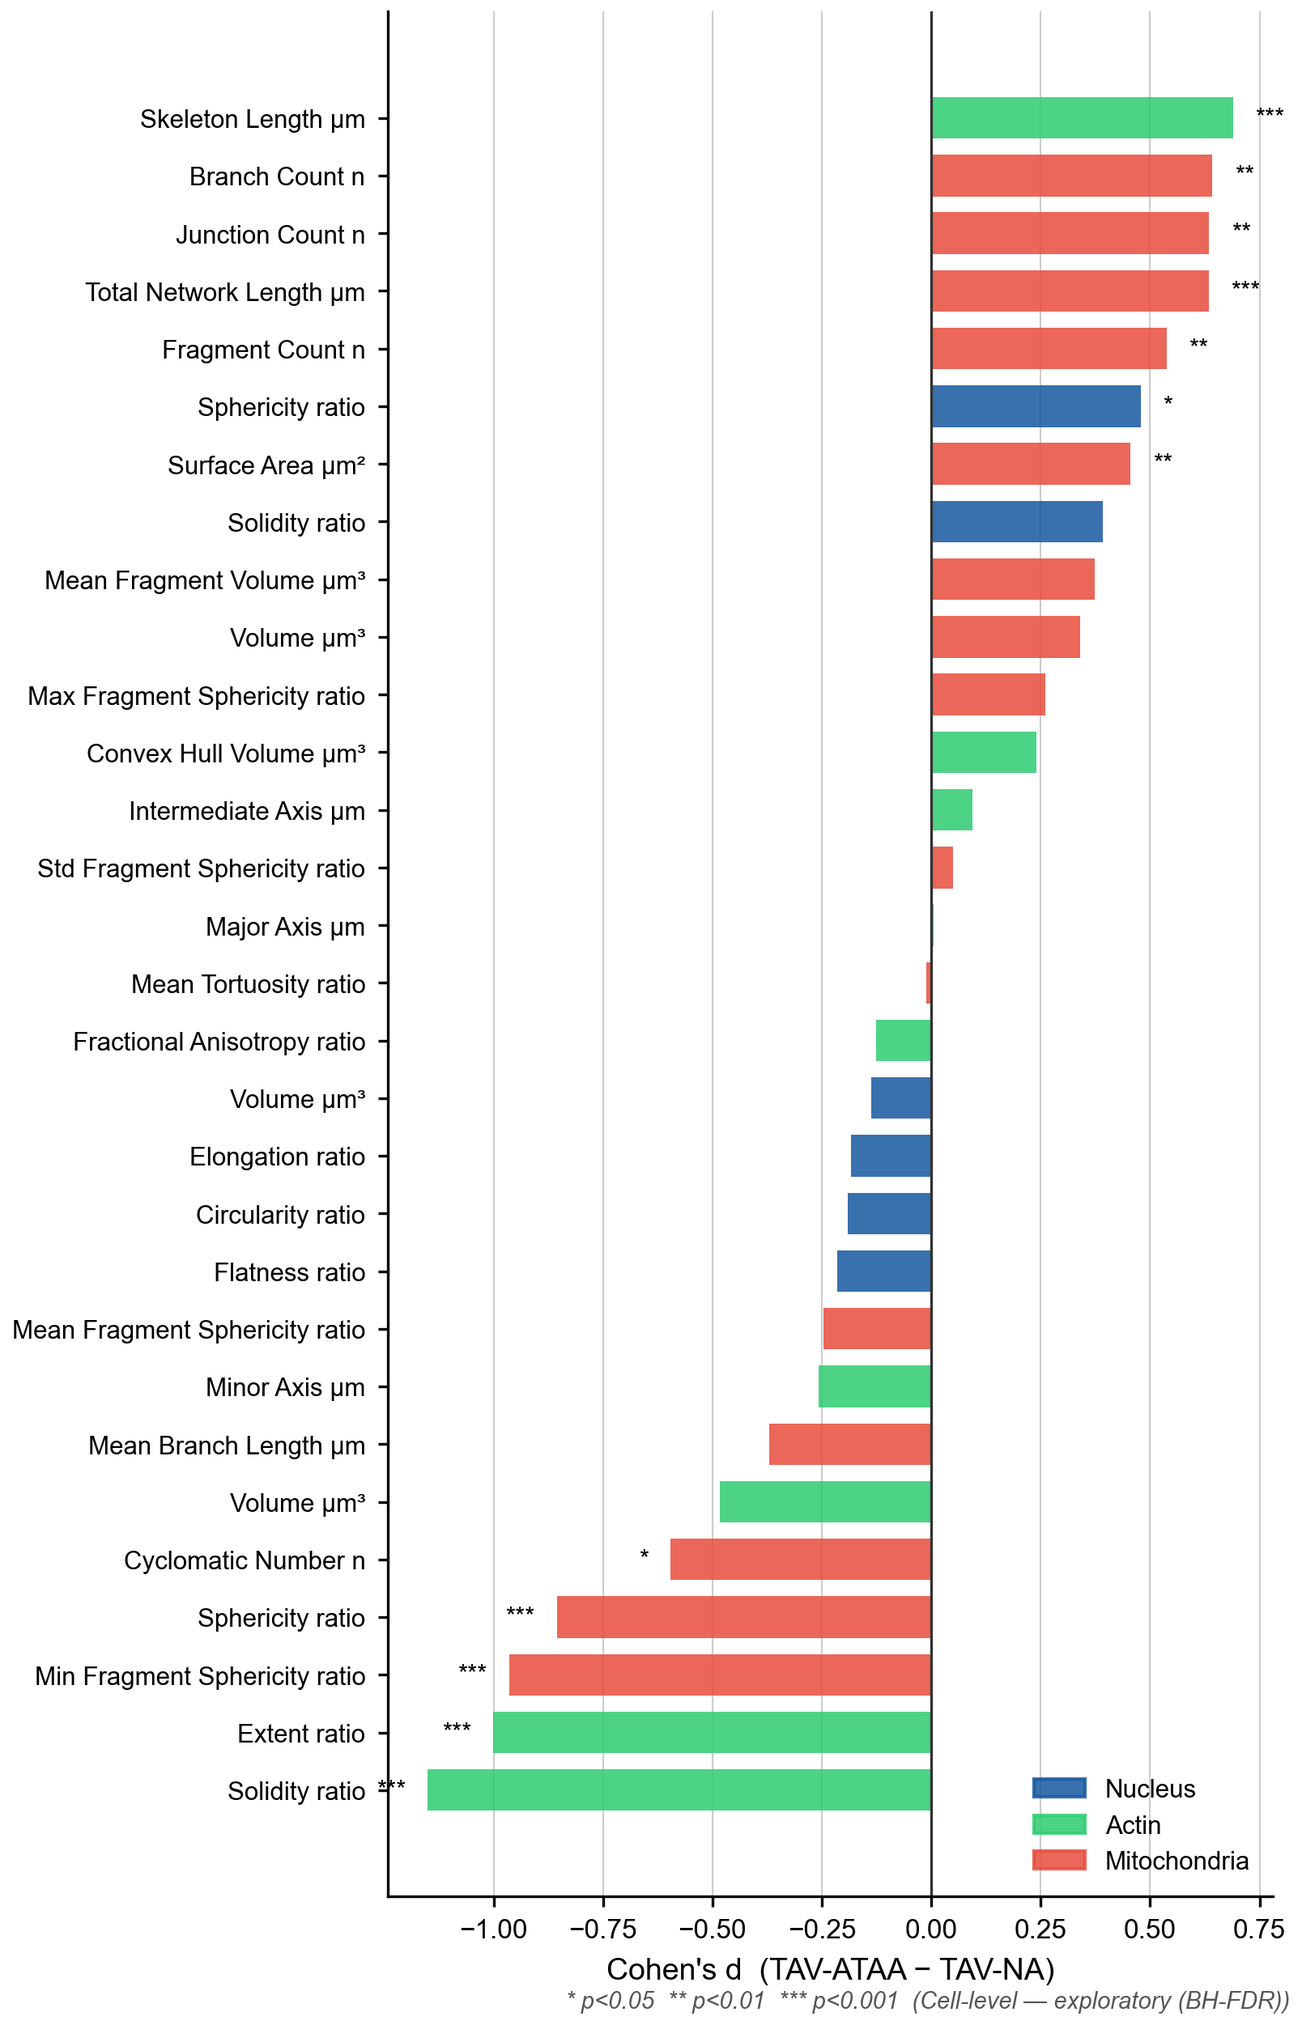
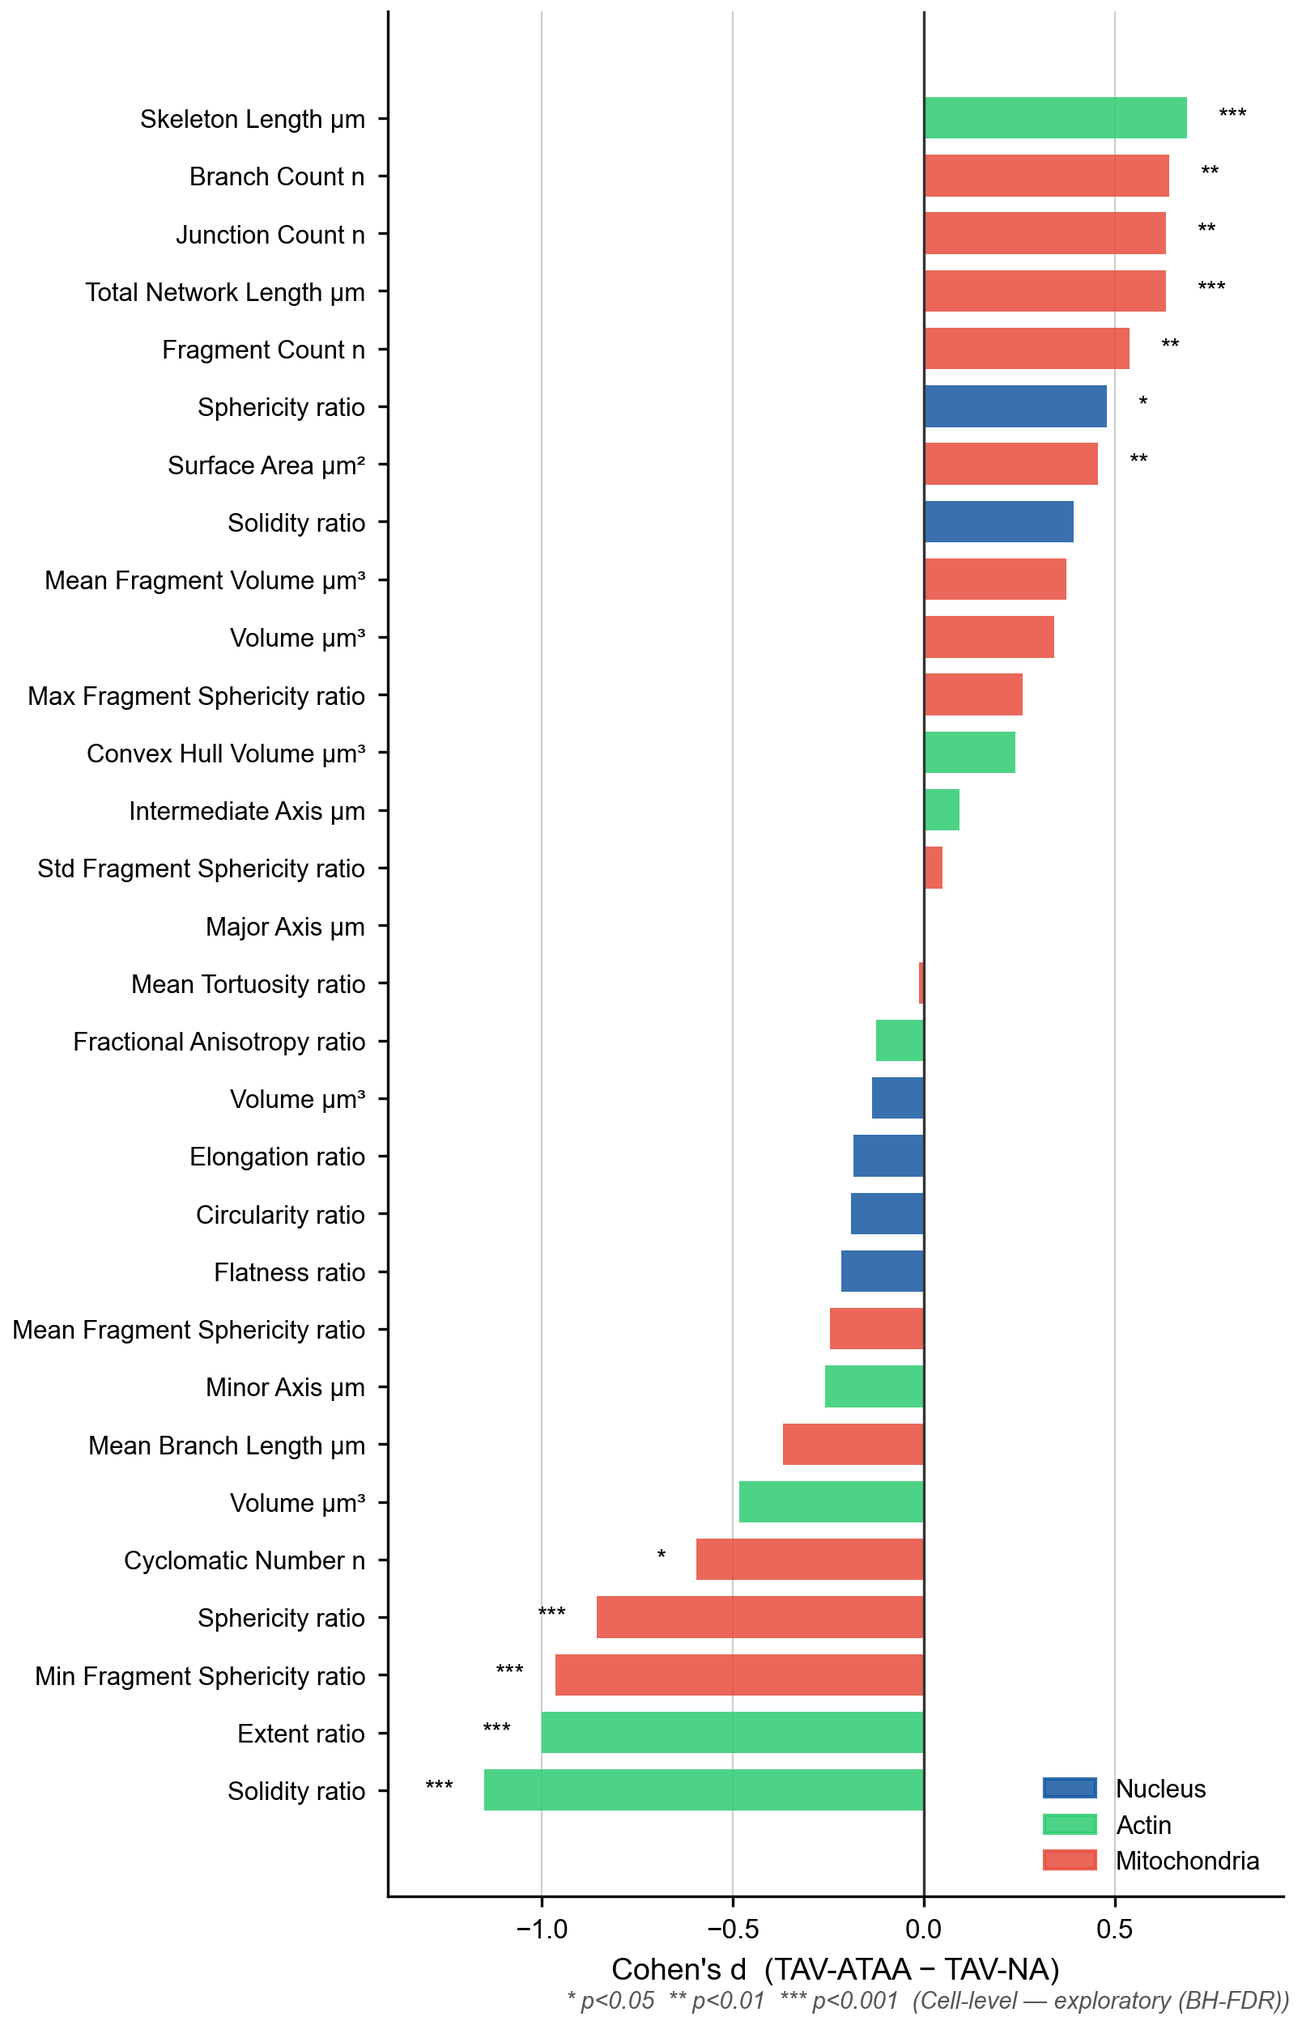
improved plots

diff --git a/src/analysis/plot_part1_cell_l1_composite.py b/src/analysis/plot_part1_cell_l1_composite.py
@@ -1,0 +1,202 @@
+"""
+Composite figure: Part 1 cell-level L1 significant features (TAV-NA vs TAV-ATAA).
+12 panels (3 cols × 4 rows), only NoCollagen cells, box + strip style.
+Output: outputs/figures/part1_cell_l1_composite.png
+"""
+
+import numpy as np
+import pandas as pd
+import matplotlib
+matplotlib.use('Agg')
+import matplotlib.pyplot as plt
+import matplotlib.patches as mpatches
+from pathlib import Path
+from scipy.stats import mannwhitneyu
+
+PROJ = Path(__file__).resolve().parents[2]
+OUT  = PROJ / 'outputs' / 'figures'
+OUT.mkdir(parents=True, exist_ok=True)
+
+# ── colours ───────────────────────────────────────────────────────────────────
+COLOR = {'Healthy': '#4C9BE8', 'TAA': '#E74C3C'}
+LABEL = {'Healthy': 'TAV-NA', 'TAA': 'TAV-ATAA'}
+ORGANELLE_COLOR = {
+    'Actin':        '#2ECC71',
+    'Mitochondria': '#E74C3C',
+    'Nucleus':      '#1558A0',
+}
+
+# ── 12 significant cell-level features (organelle, raw_col, display_name, unit)
+FEATURES = [
+    # Actin
+    ('Actin',        'Actin_Solidity_ratio',               'Solidity',                'ratio'),
+    ('Actin',        'Actin_Extent_ratio',                 'Extent',                  'ratio'),
+    ('Actin',        'Actin_Skeleton_Length_µm',           'Skeleton length',         'µm'),
+    # Mitochondria
+    ('Mitochondria', 'Mito_Min_Fragment_Sphericity_ratio', 'Min. fragment sphericity', 'ratio'),
+    ('Mitochondria', 'Mito_Sphericity_ratio',              'Network sphericity',       'ratio'),
+    ('Mitochondria', 'Mito_Branch_Count_n',                'Branch count',             'n'),
+    ('Mitochondria', 'Mito_Junction_Count_n',              'Junction count',           'n'),
+    ('Mitochondria', 'Mito_Total_Network_Length_µm',       'Total network length',     'µm'),
+    ('Mitochondria', 'Mito_Fragment_Count_n',              'Fragment count',           'n'),
+    ('Mitochondria', 'Mito_Cyclomatic_Number_n',           'Cyclomatic number',        'n'),
+    ('Mitochondria', 'Mito_Surface_Area_µm²',              'Surface area',             'µm²'),
+    # Nucleus
+    ('Nucleus',      'Nucleus_Sphericity_ratio',           'Sphericity',               'ratio'),
+]
+
+# ── helpers ───────────────────────────────────────────────────────────────────
+def cohens_d(a, b):
+    s = np.sqrt((np.std(a, ddof=1)**2 + np.std(b, ddof=1)**2) / 2)
+    return (np.mean(b) - np.mean(a)) / s if s > 0 else 0.0
+
+def sig_stars(q):
+    if q < 0.001: return '***'
+    if q < 0.01:  return '**'
+    if q < 0.05:  return '*'
+    return 'ns'
+
+# q-values from L1_pairwise.csv (cell level, BH-FDR)
+Q_VALUES = {
+    'Actin_Solidity_ratio':               4.89e-6,
+    'Actin_Extent_ratio':                 4.89e-6,
+    'Actin_Skeleton_Length_µm':           1.44e-4,
+    'Mito_Min_Fragment_Sphericity_ratio': 9.03e-6,
+    'Mito_Sphericity_ratio':              7.87e-5,
+    'Mito_Branch_Count_n':                1.94e-3,
+    'Mito_Junction_Count_n':              2.43e-3,
+    'Mito_Total_Network_Length_µm':       8.32e-4,
+    'Mito_Fragment_Count_n':              2.05e-3,
+    'Mito_Cyclomatic_Number_n':           1.59e-2,
+    'Mito_Surface_Area_µm²':              5.10e-3,
+    'Nucleus_Sphericity_ratio':           2.93e-2,
+}
+
+# ── load data ─────────────────────────────────────────────────────────────────
+df = pd.read_csv(PROJ / 'outputs' / 'Advanced_Features_Raw_Final.csv')
+df = df[df['Collagen_Status'] == 'NoCollagen']
+df = df[df['Disease'].isin(['Healthy', 'TAA'])]
+
+# ── paper rc ──────────────────────────────────────────────────────────────────
+plt.rcParams.update({
+    'font.family':       'Arial',
+    'font.sans-serif':   ['Arial'],
+    'font.size':         10,
+    'axes.labelsize':    10,
+    'axes.titlesize':    11,
+    'xtick.labelsize':   9,
+    'ytick.labelsize':   9,
+    'axes.linewidth':    0.8,
+    'xtick.major.width': 0.8,
+    'ytick.major.width': 0.8,
+    'xtick.major.size':  3,
+    'ytick.major.size':  3,
+    'axes.spines.top':   False,
+    'axes.spines.right': False,
+    'savefig.dpi':       300,
+})
+
+# ── figure ────────────────────────────────────────────────────────────────────
+NCOLS, NROWS = 3, 4
+fig, axes = plt.subplots(NROWS, NCOLS,
+                         figsize=(7.2, 9.6),
+                         constrained_layout=False)
+fig.subplots_adjust(left=0.09, right=0.97, top=0.92, bottom=0.06,
+                    hspace=0.72, wspace=0.42)
+
+rng = np.random.default_rng(42)
+
+for idx, (organelle, col, name, unit) in enumerate(FEATURES):
+    row, c = divmod(idx, NCOLS)
+    ax = axes[row, c]
+
+    org_color = ORGANELLE_COLOR[organelle]
+
+    vals = {}
+    for grp in ['Healthy', 'TAA']:
+        v = df.loc[df['Disease'] == grp, col].dropna().values
+        vals[grp] = v
+
+    # ── box plot ──────────────────────────────────────────────────────────────
+    positions = [0, 1]
+    bp = ax.boxplot(
+        [vals['Healthy'], vals['TAA']],
+        positions=positions,
+        widths=0.45,
+        patch_artist=True,
+        medianprops=dict(color='black', linewidth=1.5),
+        whiskerprops=dict(linewidth=0.8),
+        capprops=dict(linewidth=0.8),
+        flierprops=dict(marker='', linestyle='none'),
+        boxprops=dict(linewidth=0.8),
+    )
+    for patch, grp in zip(bp['boxes'], ['Healthy', 'TAA']):
+        patch.set_facecolor(COLOR[grp])
+        patch.set_alpha(0.35)
+
+    # ── strip plot ────────────────────────────────────────────────────────────
+    for xi, grp in zip(positions, ['Healthy', 'TAA']):
+        v = vals[grp]
+        jitter = rng.uniform(-0.18, 0.18, size=len(v))
+        ax.scatter(xi + jitter, v,
+                   color=COLOR[grp], s=10, alpha=0.65,
+                   linewidths=0, zorder=3)
+
+    # ── significance bracket ──────────────────────────────────────────────────
+    q     = Q_VALUES[col]
+    d     = cohens_d(vals['Healthy'], vals['TAA'])
+    stars = sig_stars(q)
+
+    ymax  = max(np.percentile(vals['Healthy'], 97),
+                np.percentile(vals['TAA'],     97))
+    ymin  = min(np.percentile(vals['Healthy'], 3),
+                np.percentile(vals['TAA'],     3))
+    yspan = ymax - ymin
+    bar_y = ymax + 0.10 * yspan
+    tick  = 0.03 * yspan
+
+    ax.plot([0, 0, 1, 1], [bar_y - tick, bar_y, bar_y, bar_y - tick],
+            lw=0.9, color='#333333')
+    ax.text(0.5, bar_y + 0.01 * yspan, stars,
+            ha='center', va='bottom', fontsize=10, color='#333333')
+
+    # ── axes labels ───────────────────────────────────────────────────────────
+    y_label = name if unit == 'ratio' else f'{name} ({unit})'
+    ax.set_ylabel(y_label, fontsize=9)
+    ax.set_xticks([0, 1])
+    ax.set_xticklabels(['TAV-NA', 'TAV-ATAA'], fontsize=9)
+    ax.set_xlim(-0.55, 1.55)
+
+    # ── panel title ───────────────────────────────────────────────────────────
+    ax.set_title(name, fontsize=11, fontweight='bold', pad=4,
+                 color=org_color)
+
+    # ── d annotation ─────────────────────────────────────────────────────────
+    ax.text(0.97, 0.97, f'$d$ = {d:+.2f}',
+            transform=ax.transAxes, fontsize=8,
+            ha='right', va='top', color='#555555')
+
+# ── organelle legend (top centre) ────────────────────────────────────────────
+patches = [mpatches.Patch(facecolor=ORGANELLE_COLOR[o], label=o, alpha=0.85)
+           for o in ['Actin', 'Mitochondria', 'Nucleus']]
+fig.legend(handles=patches, loc='upper center', ncol=3,
+           frameon=False, fontsize=9,
+           bbox_to_anchor=(0.5, 0.975))
+
+# ── group legend (top right) ──────────────────────────────────────────────────
+grp_patches = [mpatches.Patch(facecolor=COLOR[g], alpha=0.55, label=LABEL[g])
+               for g in ['Healthy', 'TAA']]
+fig.legend(handles=grp_patches, loc='upper right',
+           frameon=False, fontsize=9,
+           bbox_to_anchor=(0.99, 0.975))
+
+# ── footnote ─────────────────────────────────────────────────────────────────
+fig.text(0.5, 0.005,
+         '* $q$<0.05   ** $q$<0.01   *** $q$<0.001   '
+         '(BH-FDR corrected, cell level, no-collagen condition)',
+         ha='center', fontsize=7.5, color='#666666', style='italic')
+
+out_path = OUT / 'part1_cell_l1_composite.png'
+fig.savefig(out_path, dpi=300, bbox_inches='tight', pad_inches=0.05)
+plt.close(fig)
+print(f'Saved → {out_path}')

diff --git a/src/analysis/plot_part1_cohens_d_composite.py b/src/analysis/plot_part1_cohens_d_composite.py
@@ -1,0 +1,157 @@
+"""
+Composite Cohen's d figure — Part 1 (TAV-NA vs TAV-ATAA).
+2 × 2 grid:
+  A  Cell level   L1 Disease        B  Cell level   L2 Age-corrected
+  C  Patient level L1 Disease       D  Patient level L2 Age-corrected
+
+Features sorted by cell-level L1 |Cohen's d| (A sets the order; B, C, D follow).
+Output: outputs/figures/part1_cohens_d_composite.png
+"""
+
+import numpy as np
+import pandas as pd
+import matplotlib
+matplotlib.use('Agg')
+import matplotlib.pyplot as plt
+import matplotlib.patches as mpatches
+from pathlib import Path
+
+PROJ = Path(__file__).resolve().parents[2]
+OUT  = PROJ / 'outputs' / 'figures'
+OUT.mkdir(parents=True, exist_ok=True)
+
+# ── colours ───────────────────────────────────────────────────────────────────
+ORGANELLE_COLORS = {
+    'Actin':        '#2ECC71',
+    'Mitochondria': '#E74C3C',
+    'Nucleus':      '#1558A0',
+}
+
+# ── load all four CSVs ────────────────────────────────────────────────────────
+cell_l1  = pd.read_csv(PROJ / 'outputs/final_thesis_part1/cell/L1_pairwise.csv')
+cell_l2  = pd.read_csv(PROJ / 'outputs/final_thesis_part1/cell/L2_age_corrected.csv')
+pt_l1    = pd.read_csv(PROJ / 'outputs/final_thesis_part1/patient/L1_pairwise.csv')
+pt_l2    = pd.read_csv(PROJ / 'outputs/final_thesis_part1/patient/L2_age_corrected.csv')
+
+# ── feature order: sorted by cell L1 Cohen's d ascending (most negative first)
+feature_order = (cell_l1.sort_values('Cohen_d', ascending=True)['Feature'].tolist())
+
+def clean_label(feat):
+    parts = feat.split('_', 1)
+    return parts[1].replace('_', ' ') if len(parts) > 1 else feat.replace('_', ' ')
+
+def sig_stars(q):
+    if q < 0.001: return '***'
+    if q < 0.01:  return '**'
+    if q < 0.05:  return '*'
+    return ''
+
+# ── paper rc ─────────────────────────────────────────────────────────────────
+plt.rcParams.update({
+    'font.family':       'Arial',
+    'font.sans-serif':   ['Arial'],
+    'font.size':         9,
+    'axes.labelsize':    9,
+    'axes.titlesize':    10,
+    'xtick.labelsize':   8,
+    'ytick.labelsize':   8,
+    'axes.linewidth':    0.8,
+    'xtick.major.width': 0.8,
+    'ytick.major.width': 0.8,
+    'xtick.major.size':  3,
+    'ytick.major.size':  3,
+    'axes.spines.top':   False,
+    'axes.spines.right': False,
+    'savefig.dpi':       300,
+})
+
+# ── figure ────────────────────────────────────────────────────────────────────
+n = len(feature_order)
+fig, axes = plt.subplots(
+    2, 2,
+    figsize=(13, n * 0.30 + 2.0),
+    sharey=True,          # shared y-axis keeps features aligned across columns
+)
+fig.subplots_adjust(left=0.22, right=0.97, top=0.94, bottom=0.05,
+                    hspace=0.28, wspace=0.22)
+
+PANELS = [
+    (axes[0, 0], cell_l1,  'A',  'Cell level — Disease',         'Cell\n(exploratory, BH-FDR)'),
+    (axes[0, 1], cell_l2,  'B',  'Cell level — Age-corrected',   'Cell\n(age-residualised, BH-FDR)'),
+    (axes[1, 0], pt_l1,    'C',  'Patient level — Disease',      'Patient\n(BH-FDR)'),
+    (axes[1, 1], pt_l2,    'D',  'Patient level — Age-corrected','Patient\n(age-residualised, BH-FDR)'),
+]
+
+y_pos   = np.arange(n)
+ylabels = [clean_label(f) for f in feature_order]
+
+for ax, df, panel_label, title, footer_txt in PANELS:
+
+    # align df to feature_order
+    df = df.set_index('Feature').reindex(feature_order).reset_index()
+
+    colors = [ORGANELLE_COLORS.get(o, '#AAA') for o in df['Organelle']]
+    d_vals = df['Cohen_d'].fillna(0).values
+
+    bars = ax.barh(y_pos, d_vals, color=colors,
+                   edgecolor='white', linewidth=0,
+                   height=0.72, alpha=0.85)
+
+    ax.axvline(0, color='#333333', lw=0.8)
+
+    # significance stars
+    xlim  = ax.get_xlim()
+    pad   = (xlim[1] - xlim[0]) * 0.04
+    star_xs = []
+    for i, row in df.iterrows():
+        if row.get('Significant', False):
+            x  = row['Cohen_d']
+            sx = x + (pad if x >= 0 else -pad)
+            star_xs.append(sx)
+            ax.text(sx, i, sig_stars(row['BH_q']),
+                    va='center',
+                    ha='left' if x >= 0 else 'right',
+                    fontsize=8, color='#222222')
+
+    # expand xlim so stars are never clipped
+    if star_xs:
+        extra     = (xlim[1] - xlim[0]) * 0.10
+        new_left  = min(xlim[0], min(star_xs)) - extra
+        new_right = max(xlim[1], max(star_xs)) + extra
+        ax.set_xlim(new_left, new_right)
+
+    # grid lines
+    ax.set_axisbelow(True)
+    ax.xaxis.grid(True, color='#dddddd', linewidth=0.5, linestyle='--')
+
+    ax.set_yticks(y_pos)
+    ax.set_yticklabels(ylabels, fontsize=8)
+    ax.set_xlabel("Cohen's $d$  (TAV-ATAA − TAV-NA)", fontsize=8.5)
+
+    # panel label + title
+    ax.text(-0.22, 1.02, panel_label,
+            transform=ax.transAxes,
+            fontsize=13, fontweight='bold', va='bottom', ha='left')
+    ax.set_title(title, fontsize=9, pad=4, loc='left', color='#333333')
+
+
+    ax.spines['top'].set_visible(False)
+    ax.spines['right'].set_visible(False)
+
+# ── shared legend ─────────────────────────────────────────────────────────────
+patches = [mpatches.Patch(facecolor=ORGANELLE_COLORS[o], label=o, alpha=0.85)
+           for o in ['Actin', 'Mitochondria', 'Nucleus']]
+fig.legend(handles=patches,
+           loc='upper center', ncol=3,
+           frameon=False, fontsize=9,
+           bbox_to_anchor=(0.60, 0.995))
+
+# ── footnote ──────────────────────────────────────────────────────────────────
+fig.text(0.60, 0.002,
+         '* $q$<0.05   ** $q$<0.01   *** $q$<0.001',
+         ha='center', fontsize=7.5, color='#666666', style='italic')
+
+out_path = OUT / 'part1_cohens_d_composite.png'
+fig.savefig(out_path, dpi=300, bbox_inches='tight', pad_inches=0.05)
+plt.close(fig)
+print(f'Saved → {out_path}')

diff --git a/src/analysis/shared_stats.py b/src/analysis/shared_stats.py
@@ -624,12 +624,22 @@ def plot_cohens_d_bars(res, path, g1_label, g2_label, level='patient'):
     ax.set_xlabel(f"Cohen's d  ({g2_label} − {g1_label})")
 
     xlim = ax.get_xlim()
-    pad  = (xlim[1] - xlim[0]) * 0.025
+    pad  = (xlim[1] - xlim[0]) * 0.04
+    star_positions = []
     for i, (_, row) in enumerate(sub.iterrows()):
         if row.get('Significant', False):
             x = row['Cohen_d']
-            ax.text(x + (pad if x >= 0 else -pad), i, sig_stars(row['BH_q']),
+            sx = x + (pad if x >= 0 else -pad)
+            star_positions.append(sx)
+            ax.text(sx, i, sig_stars(row['BH_q']),
                     va='center', ha='left' if x >= 0 else 'right', fontsize=7.5)
+
+    # expand xlim so stars are never clipped by the axis boundary
+    if star_positions:
+        extra = (xlim[1] - xlim[0]) * 0.08
+        new_left  = min(xlim[0], min(star_positions)) - extra
+        new_right = max(xlim[1], max(star_positions)) + extra
+        ax.set_xlim(new_left, new_right)
 
     patches = [mpatches.Patch(color=c, label=o, alpha=0.85)
                for o, c in ORGANELLE_COLORS.items()]
